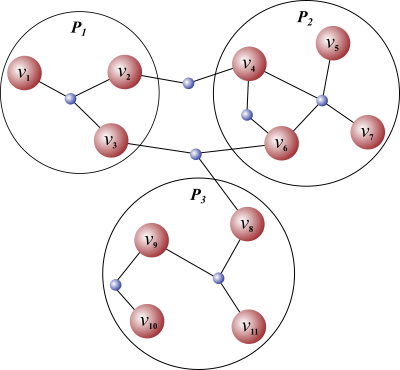
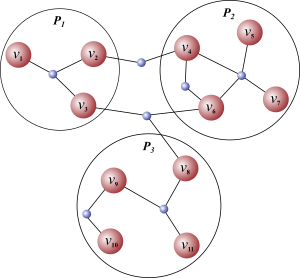
minor

diff --git a/_sass/site.scss b/_sass/site.scss
@@ -43,7 +43,7 @@
 
 .image-inside {
   margin-left:15px;
-  width: 400px;
+  width: 300px;
 }
 
 /* Clearfix */
